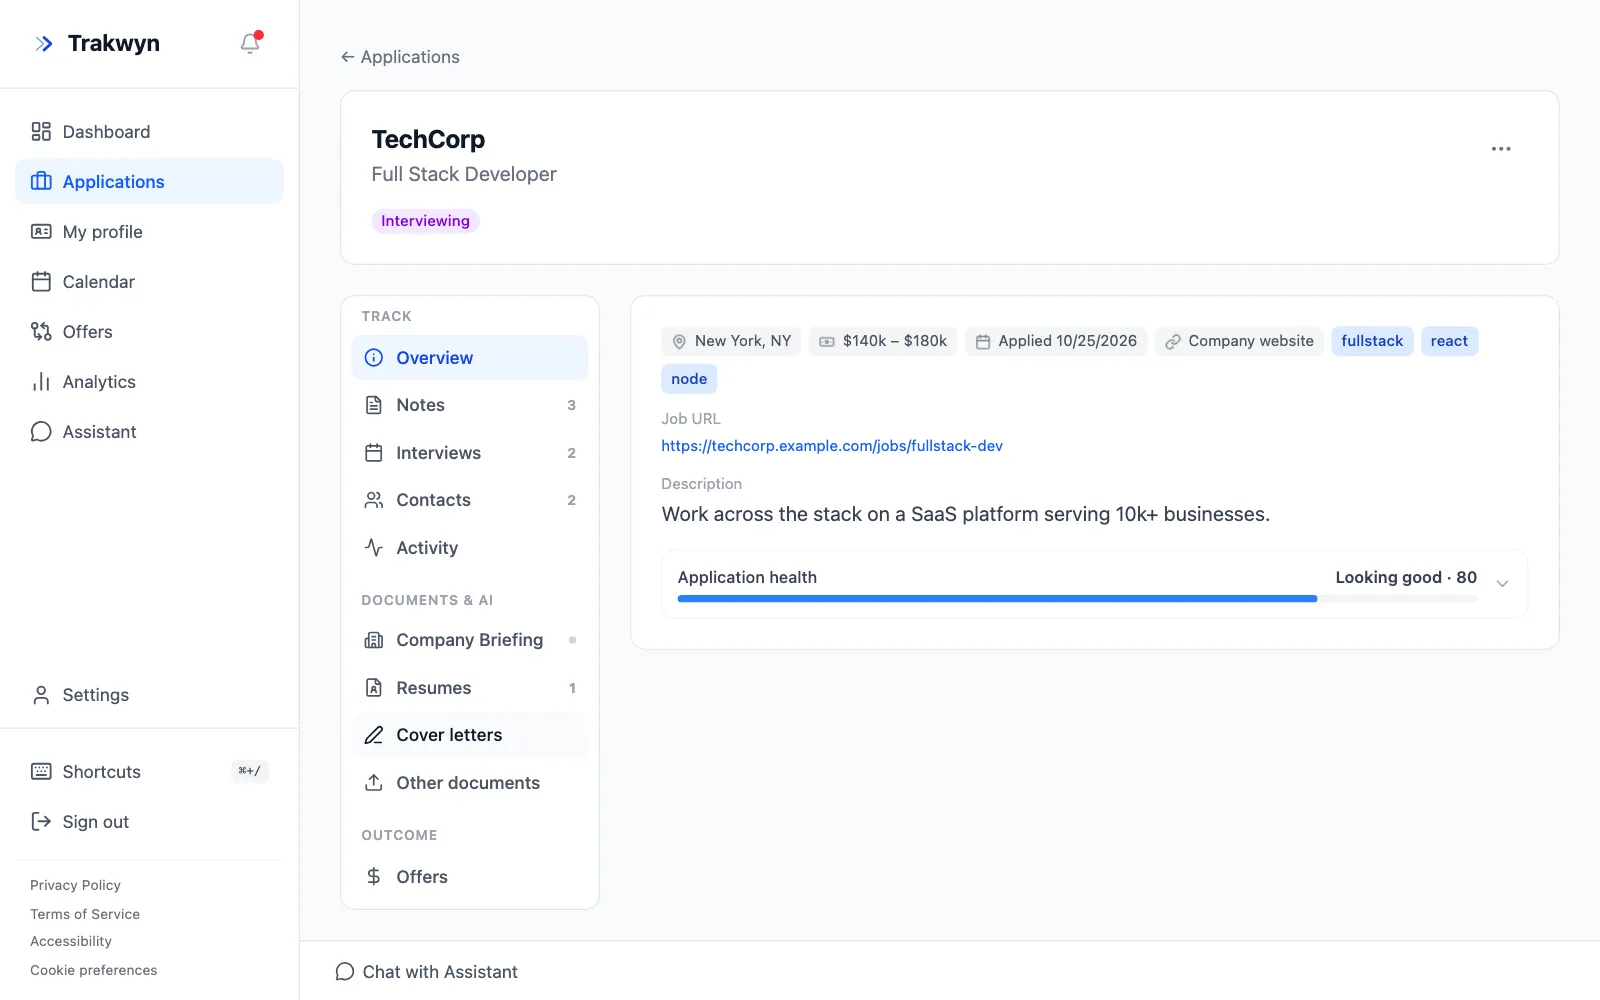
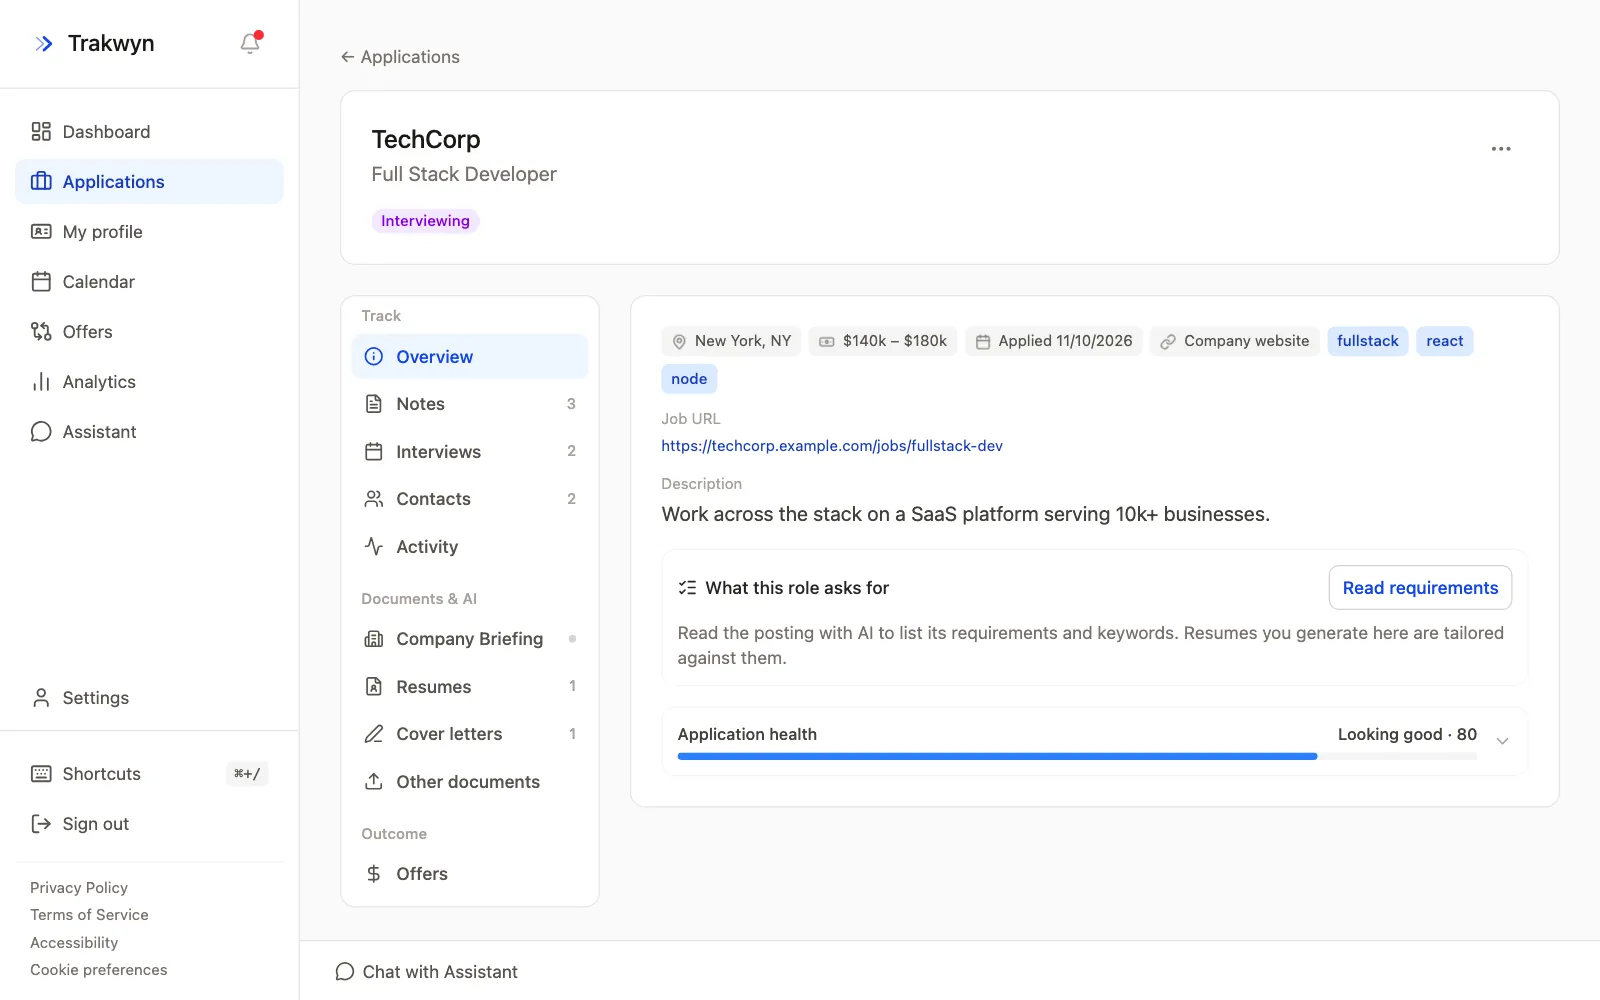
chore(web): recapture the guide screenshots on the marketing seed profile (JEF-687)
Claude-Session: https://claude.ai/code/session_016qG1KNvBZQMVMd3Hp1wr43

diff --git a/apps/web/e2e/CLAUDE.md b/apps/web/e2e/CLAUDE.md
@@ -33,4 +33,4 @@ Two specs hold the public marketing pages (`/`, `/features`, the four `/features
 
 ## Guide scripts (JEF-532)
 
-`content/guides/en/<slug>/guide.ts` runs one guide's steps and takes its screenshots. `pnpm guides:verify` checks them (CI's `guides-verify`), `pnpm guides:capture` rewrites the images that changed. The config is `playwright.guides.config.ts`, the helpers and the pixel-diff decision are in `e2e/guides/`, and `e2e/guides/run.sh` seeds the demo account at a pinned `SEED_NOW` first. How to write one is in `content/README.md`. Like the marketing screenshots, it needs this checkout's ports free.
+`content/guides/en/<slug>/guide.ts` runs one guide's steps and takes its screenshots. `pnpm guides:verify` checks them (CI's `guides-verify`), `pnpm guides:capture` rewrites the images that changed. The config is `playwright.guides.config.ts`, the helpers and the pixel-diff decision are in `e2e/guides/`, and `e2e/guides/run.sh` seeds the demo account with `SEED_PROFILE=marketing` at a pinned `SEED_NOW` first (JEF-687: the same data as the marketing screenshots, no Quota Demo rows). **`guides:verify` only checks that the steps run; it never compares images** (`differsVisibly` is used by capture only), so a restyle does not fail CI and the guide images go stale until someone reruns `pnpm guides:capture`. How to write one is in `content/README.md`. Like the marketing screenshots, it needs this checkout's ports free.
